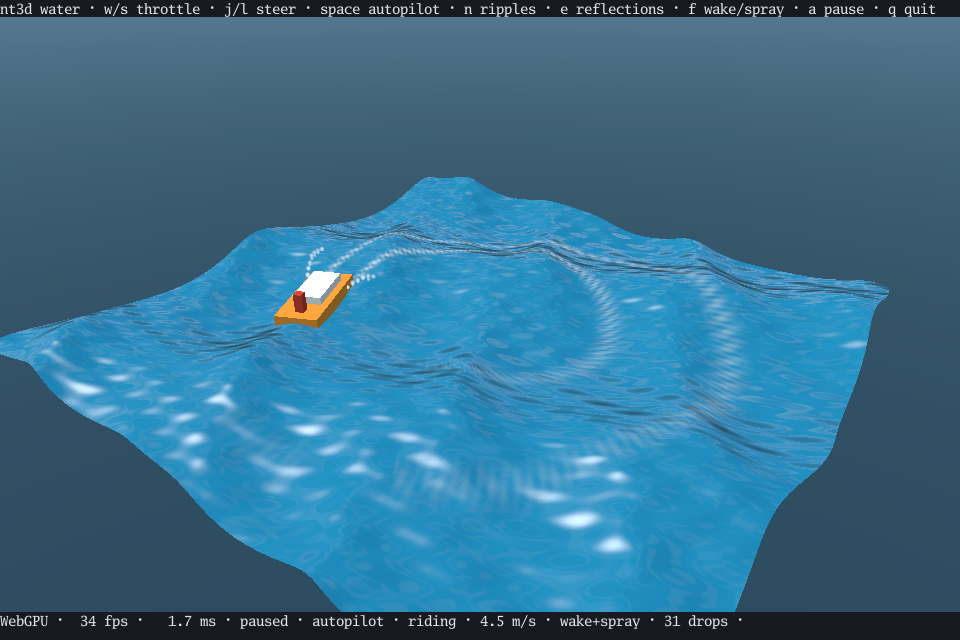
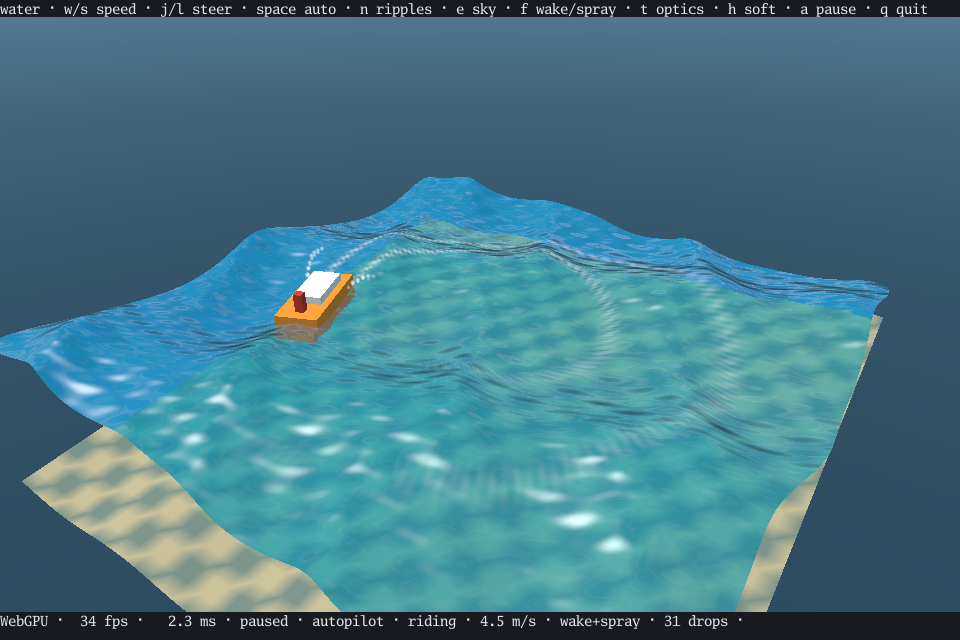
water: demonstrate refractive shallows and soft spray

Changed region(s): [[0.0312, 0.3438, 0.9375, 0.9688], [0.0, 0.0, 0.9688, 0.0312]]

diff --git a/web/index.html b/web/index.html
@@ -27,7 +27,7 @@
         <article class="card"><a class="preview" href="gaussians/" aria-label="Open Gaussian splatting demo"><img src="assets/gaussians.png" alt="A soft rainbow ring rendered from anisotropic Gaussians" width="640" height="480"><span class="number">15 / GAUSSIANS</span></a><div class="card-body"><h2><a href="gaussians/">Gaussian splatting ↗</a></h2><p>A small embedded 3DGS PLY with anisotropic, sorted, alpha-blended ellipses. Orbit and compare all three renderers.</p><a class="launch" href="gaussians/">Explore Gaussians →</a></div></article>
       <article class="card"><a class="preview" href="cloud/" aria-label="Open point cloud demo"><img src="assets/cloud.png" alt="A spiral galaxy of a million colored points on black" width="960" height="640"><span class="number">16 / CLUSTERING</span></a><div class="card-body"><h2><a href="cloud/">Point cloud <span>↗</span></a></h2><p>A galaxy of up to a million points, grouped into clusters once. Each frame keeps only the clusters in view and thins the far ones, so zooming out stays quick in every renderer. Switch the clustering off to compare.</p><div class="card-bottom"><a class="launch" href="cloud/">Explore the cloud →</a><a class="source" href="https://github.com/NimbleTerminal/nt3d/blob/main/examples/demos/internal/demo/cloud.go">Source</a></div></div></article>
       <article class="card"><a class="preview" href="aabb/" aria-label="Open AABB tree demo"><img src="assets/aabb.png" alt="Colored boxes above a dark floor, one white, inside nested wireframe boxes" width="960" height="640"><span class="number">17 / SPATIAL INDEX</span></a><div class="card-body"><h2><a href="aabb/">AABB tree <span>↗</span></a></h2><p>Scattered boxes indexed by a dynamic AABB tree. Click a box to see its ancestors as nested wireframes, from the leaf up to the root, then set the boxes drifting and watch the tree update.</p><div class="card-bottom"><a class="launch" href="aabb/">Explore the tree →</a><a class="source" href="https://github.com/NimbleTerminal/nt3d/blob/main/examples/demos/internal/demo/aabb.go">Source</a></div></div></article>
-      <article class="card"><a class="preview" href="water/" aria-label="Open water demo"><img src="assets/water.png" alt="An orange float riding teal waves" width="960" height="640"><span class="number">18 / WATER</span></a><div class="card-body"><h2><a href="water/">Water <span>↗</span></a></h2><p>Drive a craft over directional waves, launch off crests, and land under gravity. Leave wave-following wakes and throw spray on turns and landings. Compare ripples, sky reflections, and effects.</p><div class="card-bottom"><a class="launch" href="water/">Explore water →</a><a class="source" href="https://github.com/NimbleTerminal/nt3d/blob/main/examples/demos/internal/demo/water.go">Source</a></div></div></article>
+      <article class="card"><a class="preview" href="water/" aria-label="Open water demo"><img src="assets/water.png" alt="An orange float riding teal waves" width="960" height="640"><span class="number">18 / WATER</span></a><div class="card-body"><h2><a href="water/">Water <span>↗</span></a></h2><p>Drive a craft over directional waves, launch off crests, and land under gravity. Leave wave-following wakes and throw spray on turns and landings. Explore refractive shallows, depth-dependent water color, and soft spray.</p><div class="card-bottom"><a class="launch" href="water/">Explore water →</a><a class="source" href="https://github.com/NimbleTerminal/nt3d/blob/main/examples/demos/internal/demo/water.go">Source</a></div></div></article>
     </section>
 
     <section class="notes"><div><h2>One scene, three renderers.</h2><p>Press <kbd>1</kbd> for GPU, <kbd>2</kbd> for software, or <kbd>3</kbd> for wireframe. GPU rendering falls back to software when unavailable.</p></div><div><h2>Prefer a native terminal?</h2><p>From the repository, run <code>task terrain</code>, <code>task procedural</code>, <code>task dynamic</code>, <code>task shapes</code>, <code>task models</code>, <code>task large</code>, <code>task fur</code>, <code>task mipmaps</code>, <code>task forest</code>, <code>task lights</code>, <code>task particles</code>, <code>task gaussians</code>, <code>task animation</code>, <code>task animate</code>, <code>task characters</code>, <code>task cloud</code>, <code>task aabb</code>, or <code>task water</code> in Kitty, or <code>task meshes -- model.stl</code> for your own files. Use <code>--help</code> for options.</p></div></section>

diff --git a/web/water/index.html b/web/water/index.html
@@ -2,6 +2,6 @@
 <html lang="en"><head><meta charset="utf-8"><meta name="viewport" content="width=device-width, initial-scale=1"><title>Water — nt3d</title><link rel="stylesheet" href="../demo.css"></head>
 <body><header class="nav demo-nav"><a href="../">← nt3d demos</a><h1>Water</h1><nav class="links" aria-label="Demo links"><a href="../terrain/">Terrain</a><a href="../particles/">Particles</a><a href="https://github.com/NimbleTerminal/nt3d/blob/main/examples/demos/internal/demo/water.go">Source ↗</a></nav></header>
 <main class="demo-main"><p class="description">Ride directional waves, launch off crests, and land under gravity. Animated ripple normals catch the light and reflect a cloudy sky.</p><div id="actions" class="actions" aria-label="Touch controls"></div><div class="terminal-shell"><p id="status" role="status" aria-live="polite">Loading the terminal and scene…</p><div id="terminal-container" style="position:absolute" role="region" aria-label="Interactive water terminal"></div></div>
-<div class="controls" aria-label="Keyboard and mouse controls"><span>Drag: orbit · Shift-drag: pan · Wheel: zoom</span><span><kbd>w</kbd>/<kbd>s</kbd> speed <kbd>j</kbd>/<kbd>l</kbd> steer <kbd>Space</kbd> autopilot</span><span><kbd>n</kbd> ripples <kbd>e</kbd> reflections <kbd>f</kbd> wake/spray <kbd>a</kbd> pause <kbd>d</kbd> fog <kbd>c</kbd> fit</span><span><kbd>1</kbd> GPU <kbd>2</kbd> software <kbd>3</kbd> wireframe</span><span><kbd>r</kbd> camera rotation <kbd>g</kbd> glyphs <kbd>o</kbd> projection <kbd>q</kbd> quit</span></div>
+<div class="controls" aria-label="Keyboard and mouse controls"><span>Drag: orbit · Shift-drag: pan · Wheel: zoom</span><span><kbd>w</kbd>/<kbd>s</kbd> speed <kbd>j</kbd>/<kbd>l</kbd> steer <kbd>Space</kbd> autopilot</span><span><kbd>n</kbd> ripples <kbd>e</kbd> reflections <kbd>f</kbd> wake/spray <kbd>t</kbd> optics <kbd>h</kbd> soft spray <kbd>a</kbd> pause <kbd>d</kbd> fog <kbd>c</kbd> fit</span><span><kbd>1</kbd> GPU <kbd>2</kbd> software <kbd>3</kbd> wireframe</span><span><kbd>r</kbd> camera rotation <kbd>g</kbd> glyphs <kbd>o</kbd> projection <kbd>q</kbd> quit</span></div>
 <p class="demo-foot">Click the terminal to focus keyboard controls. GPU falls back to software when unavailable. Reload to restart after quitting.</p></main>
 <script src="wasm_exec.js"></script><script type="module" src="../demo.js"></script></body></html>

diff --git a/examples/demos/internal/demo/water.go b/examples/demos/internal/demo/water.go
@@ -4,6 +4,7 @@ package demo
 import (
 	"fmt"
 	"image/color"
+	"math"
 
 	"nimbleterminal.dev/nt3d"
 	nt3dmath "nimbleterminal.dev/nt3d/math"
@@ -14,6 +15,7 @@ func WaterMain() { mainDemo(false, sceneWater) }
 
 type waterScene struct {
 	ripples, reflections bool
+	optics, softSpray    bool
 	surface              *nt3d.WaveSurface
 	grid                 nt3d.Geometry
 	rest                 []nt3dmath.Vec3
@@ -44,6 +46,7 @@ func (d *demo) setupWater() error {
 	}
 	w.craft = waterCraft{x: 0, y: -2.7, speed: 4.5, autopilot: true}
 	w.ripples, w.reflections = true, true
+	w.optics, w.softSpray = true, true
 	w.grid.Material.Reflectivity = .02
 	w.grid.Material.NormalStrength = 1
 	w.grid.Material.NormalRepeat = true
@@ -86,6 +89,9 @@ func (d *demo) setupWater() error {
 	if err = d.setupWaterEffects(); err != nil {
 		return err
 	}
+	if err = d.setupWaterBed(); err != nil {
+		return err
+	}
 	d.scene.SetEnvironment(waterEnvironment())
 	return d.stepWater()
 }
@@ -95,6 +101,13 @@ func (d *demo) stepWater() error {
 	normal, err := waterRipples(d.animationTime)
 	if err != nil {
 		return err
+	}
+	w.grid.Material.Transmission, w.grid.Material.Refraction = 0, 0
+	w.grid.Material.Absorption = nt3dmath.Vec3{}
+	if w.optics {
+		w.grid.Material.Transmission = .94
+		w.grid.Material.Refraction = .018
+		w.grid.Material.Absorption = vec(.85, .28, .12)
 	}
 	w.grid.Material.NormalMap = normal
 	w.grid.Material.NormalStrength = 0
@@ -172,6 +185,25 @@ func (d *demo) waterView(content string) string {
 	if d.water.craft.autopilot {
 		pilot = "autopilot"
 	}
-	return "nt3d water · w/s throttle · j/l steer · space autopilot · n ripples · e reflections · f wake/spray · a pause · q quit\n" + content +
+	return "water · w/s speed · j/l steer · space auto · n ripples · e sky · f wake/spray · t optics · h soft · a pause · q quit\n" + content +
 		fmt.Sprintf("\n%s · %s · %s · %s · %.1f m/s · %s · %d drops · %s", d.rendering(), state, pilot, flight, d.water.craft.speed, d.water.effects.modeName(), d.water.effects.live, d.status)
+}
+
+// A sloping, patterned bottom makes refraction and depth-dependent color visible.
+func (d *demo) setupWaterBed() error {
+	g, err := nt3d.BuildHeightfield(nt3d.Heightfield{NX: 41, NY: 41, MinX: -5, MaxX: 5, MinY: -5, MaxY: 5, Sampler: func(x, y float32) float32 { return -.65 - .16*(x+5) + .06*float32(math.Sin(float64(y)*2)) }, Color: color.RGBA{190, 172, 125, 255}})
+	if err != nil {
+		return err
+	}
+	for i := range g.Vertices {
+		p := g.Vertices[i].Position
+		if (int(math.Floor(float64(p.X+5)*2))+int(math.Floor(float64(p.Y+5)*2)))%2 == 0 {
+			g.Vertices[i].Color = color.RGBA{117, 132, 112, 255}
+		}
+	}
+	id, err := d.scene.SetGeometry("seabed", g)
+	if err != nil {
+		return err
+	}
+	return d.scene.Reparent(id, d.group)
 }

diff --git a/examples/demos/internal/demo/actions.go b/examples/demos/internal/demo/actions.go
@@ -42,7 +42,7 @@ func (k keys) FullHelp() [][]key.Binding {
 		if binding.Help().Key == "space" {
 			// Water has driving and material controls; keep touch actions within
 			// the transport limit. Camera rotation/projection remain keyboard keys.
-			view = viewKeys[:2]
+			view = viewKeys[:0]
 			break
 		}
 		if binding.Help().Key == "k" {
@@ -69,7 +69,7 @@ func (d *demo) sceneKeys() (string, keys) {
 	case d.particles != nil:
 		return "particles", keys{[]key.Binding{bind("b", "b", "blend"), bind("s", "s", "shape"), bind("t", "t", "sprites"), bind("n", "n", "count"), bind("a", "a", "pause")}}
 	case d.water != nil:
-		return "water", keys{[]key.Binding{bind("w", "w", "faster"), bind("s", "s", "slower"), bind("j", "j", "left"), bind("l", "l", "right"), bind(" ", "space", "autopilot"), bind("n", "n", "ripples"), bind("e", "e", "reflections"), bind("f", "f", "wake/spray"), bind("a", "a", "pause")}}
+		return "water", keys{[]key.Binding{bind("w", "w", "faster"), bind("s", "s", "slower"), bind("j", "j", "left"), bind("l", "l", "right"), bind(" ", "space", "autopilot"), bind("n", "n", "ripples"), bind("e", "e", "reflections"), bind("f", "f", "wake/spray"), bind("t", "t", "optics"), bind("h", "h", "soft"), bind("a", "a", "pause")}}
 	case d.aabb != nil:
 		return "aabb", keys{[]key.Binding{bind("h", "h", "hierarchy"), bind("a", "a", "drift"), bind("n", "n", "count"), bind("b", "b", "add"), bind("x", "x", "remove")}}
 	case d.cloud != nil:

diff --git a/examples/demos/internal/demo/water_effects.go b/examples/demos/internal/demo/water_effects.go
@@ -263,8 +263,17 @@ func (d *demo) setupWaterEffects() error {
 			return err
 		}
 	}
-	bounds := e.pointSnapshot(0)
-	return d.scene.SetNodeGeometry(e.spray, nt3d.Geometry{Points: e.points[:], Bounds: bounds, PointStyle: nt3d.PointStyle{Units: nt3d.WorldUnits, Shape: nt3d.SoftPoint, Blend: nt3d.AlphaBlend}})
+	return d.updateWaterSprayStyle()
+}
+
+func (d *demo) updateWaterSprayStyle() error {
+	e := &d.water.effects
+	bounds := e.pointSnapshot(d.water.craft.time)
+	soft := float32(0)
+	if d.water.softSpray {
+		soft = .16
+	}
+	return d.scene.SetNodeGeometry(e.spray, nt3d.Geometry{Points: e.points[:], Bounds: bounds, PointStyle: nt3d.PointStyle{Units: nt3d.WorldUnits, Shape: nt3d.SoftPoint, Blend: nt3d.AlphaBlend, SoftDistance: soft}})
 }
 
 func (d *demo) drawWaterEffects() error {

diff --git a/examples/demos/internal/demo/water_craft.go b/examples/demos/internal/demo/water_craft.go
@@ -114,6 +114,12 @@ func (c *waterCraft) pose() nt3dmath.Mat4 {
 func (d *demo) waterKey(key string) (bool, error) {
 	w := d.water
 	switch key {
+	case "t":
+		w.optics = !w.optics
+		return true, d.stepWater()
+	case "h":
+		w.softSpray = !w.softSpray
+		return true, d.updateWaterSprayStyle()
 	case "f":
 		w.effects.mode = (w.effects.mode + 1) % 4
 		return true, d.drawWaterEffects()

diff --git a/examples/demos/internal/demo/water_material_test.go b/examples/demos/internal/demo/water_material_test.go
@@ -35,7 +35,7 @@ func TestWaterMaterialTogglesPreservePose(t *testing.T) {
 		t.Fatal(err)
 	}
 	before, _ := d.scene.Node(d.water.float)
-	for _, key := range []string{"n", "e", "n", "e"} {
+	for _, key := range []string{"n", "e", "n", "e", "t", "h", "t", "h"} {
 		if handled, err := d.waterKey(key); !handled || err != nil {
 			t.Fatal(key, handled, err)
 		}

diff --git a/examples/demos/internal/demo/water_gpu_test.go b/examples/demos/internal/demo/water_gpu_test.go
@@ -30,7 +30,7 @@ func TestGPUWaterMotionAndMaterials(t *testing.T) {
 			t.Fatal(err)
 		}
 	}
-	for _, key := range []string{"n", "e", "n", "e", "f", "f", "f", "f"} {
+	for _, key := range []string{"n", "e", "n", "e", "t", "h", "t", "h", "f", "f", "f", "f"} {
 		if _, err := d.waterKey(key); err != nil {
 			t.Fatal(err)
 		}

diff --git a/docs/hugo/content/guide/water.md b/docs/hugo/content/guide/water.md
@@ -97,6 +97,8 @@ buoyancy or fluid feedback. Wakes and spray are visual effects. This code lives 
 | `n` | Toggle ripple normal detail |
 | `e` | Toggle environment reflections |
 | `f` | Cycle wake + spray, wake only, spray only, and hidden |
+| `t` | Toggle refraction and depth-dependent absorption |
+| `h` | Toggle spray intersection fading |
 | `a` | Pause waves and craft together |
 | `1` / `2` / `3` | GPU / software / wireframe |
 
@@ -117,7 +119,8 @@ Fresnel blending. Water uses `.02` at normal incidence, rising toward full
 reflection at grazing angles. The procedural cloud panorama supplies both the
 sky and reflections. `e` disables reflection; direct-light highlights remain.
 These reflections show the distant panorama, not the craft or nearby objects.
-There is no roughness prefilter, refraction, or screen-space reflection.
+There is no roughness prefilter or screen-space reflection. Refraction uses the
+opaque scene as described below.
 
 Mesh evaluation runs on the CPU and replaces water geometry and bounds each
 update. This is a modest patch, not a large-ocean performance claim. All
@@ -144,3 +147,30 @@ with `f` continues the simulation, and pausing freezes it.
 
 These effects use the existing transparent geometry and particle infrastructure;
 they do not deform the waves or simulate fluid interaction.
+
+## Refraction, absorption, and soft spray
+
+The patterned seabed slopes from shallow to deep water. `t` compares the lit
+water surface with scene transmission: ripple normals distort the bottom, and
+longer underwater view paths attenuate red light more strongly than green and
+blue. Fresnel sky reflections remain on top. Pause with `a` to compare the same
+waves and craft pose.
+
+The water material uses `Transmission: .94`, `Refraction: .018`, and RGB
+`Absorption: (.85, .28, .12)`. Absorption is a Beer–Lambert coefficient per world
+unit, mixing transmitted light toward the lit water color. This approximates
+the underwater segment seen through the surface; it is not a camera-underwater
+volume or a fluid simulation.
+
+Spray uses `PointStyle.SoftDistance: .16`. Its alpha fades over that world-space
+view-ray distance to the scene surface, including the water. `h` switches back
+to hard intersections without advancing the simulation.
+
+Both GPU and software render opaque geometry first, capture scene color and
+depth, then draw transmissive surfaces and write their depth. Blended ribbons
+and particles draw afterward. Captures use the current frame and render
+resolution, including supersampling. Distorted samples outside the viewport or
+in front of the water fall back to the original pixel to avoid foreground leaks.
+Only opaque geometry is refracted: multiple glass/water layers do not refract
+one another, and transparent objects behind water are not captured. Transmission
+is an open-surface approximation, not Snell-law ray tracing or volumetric transport.
